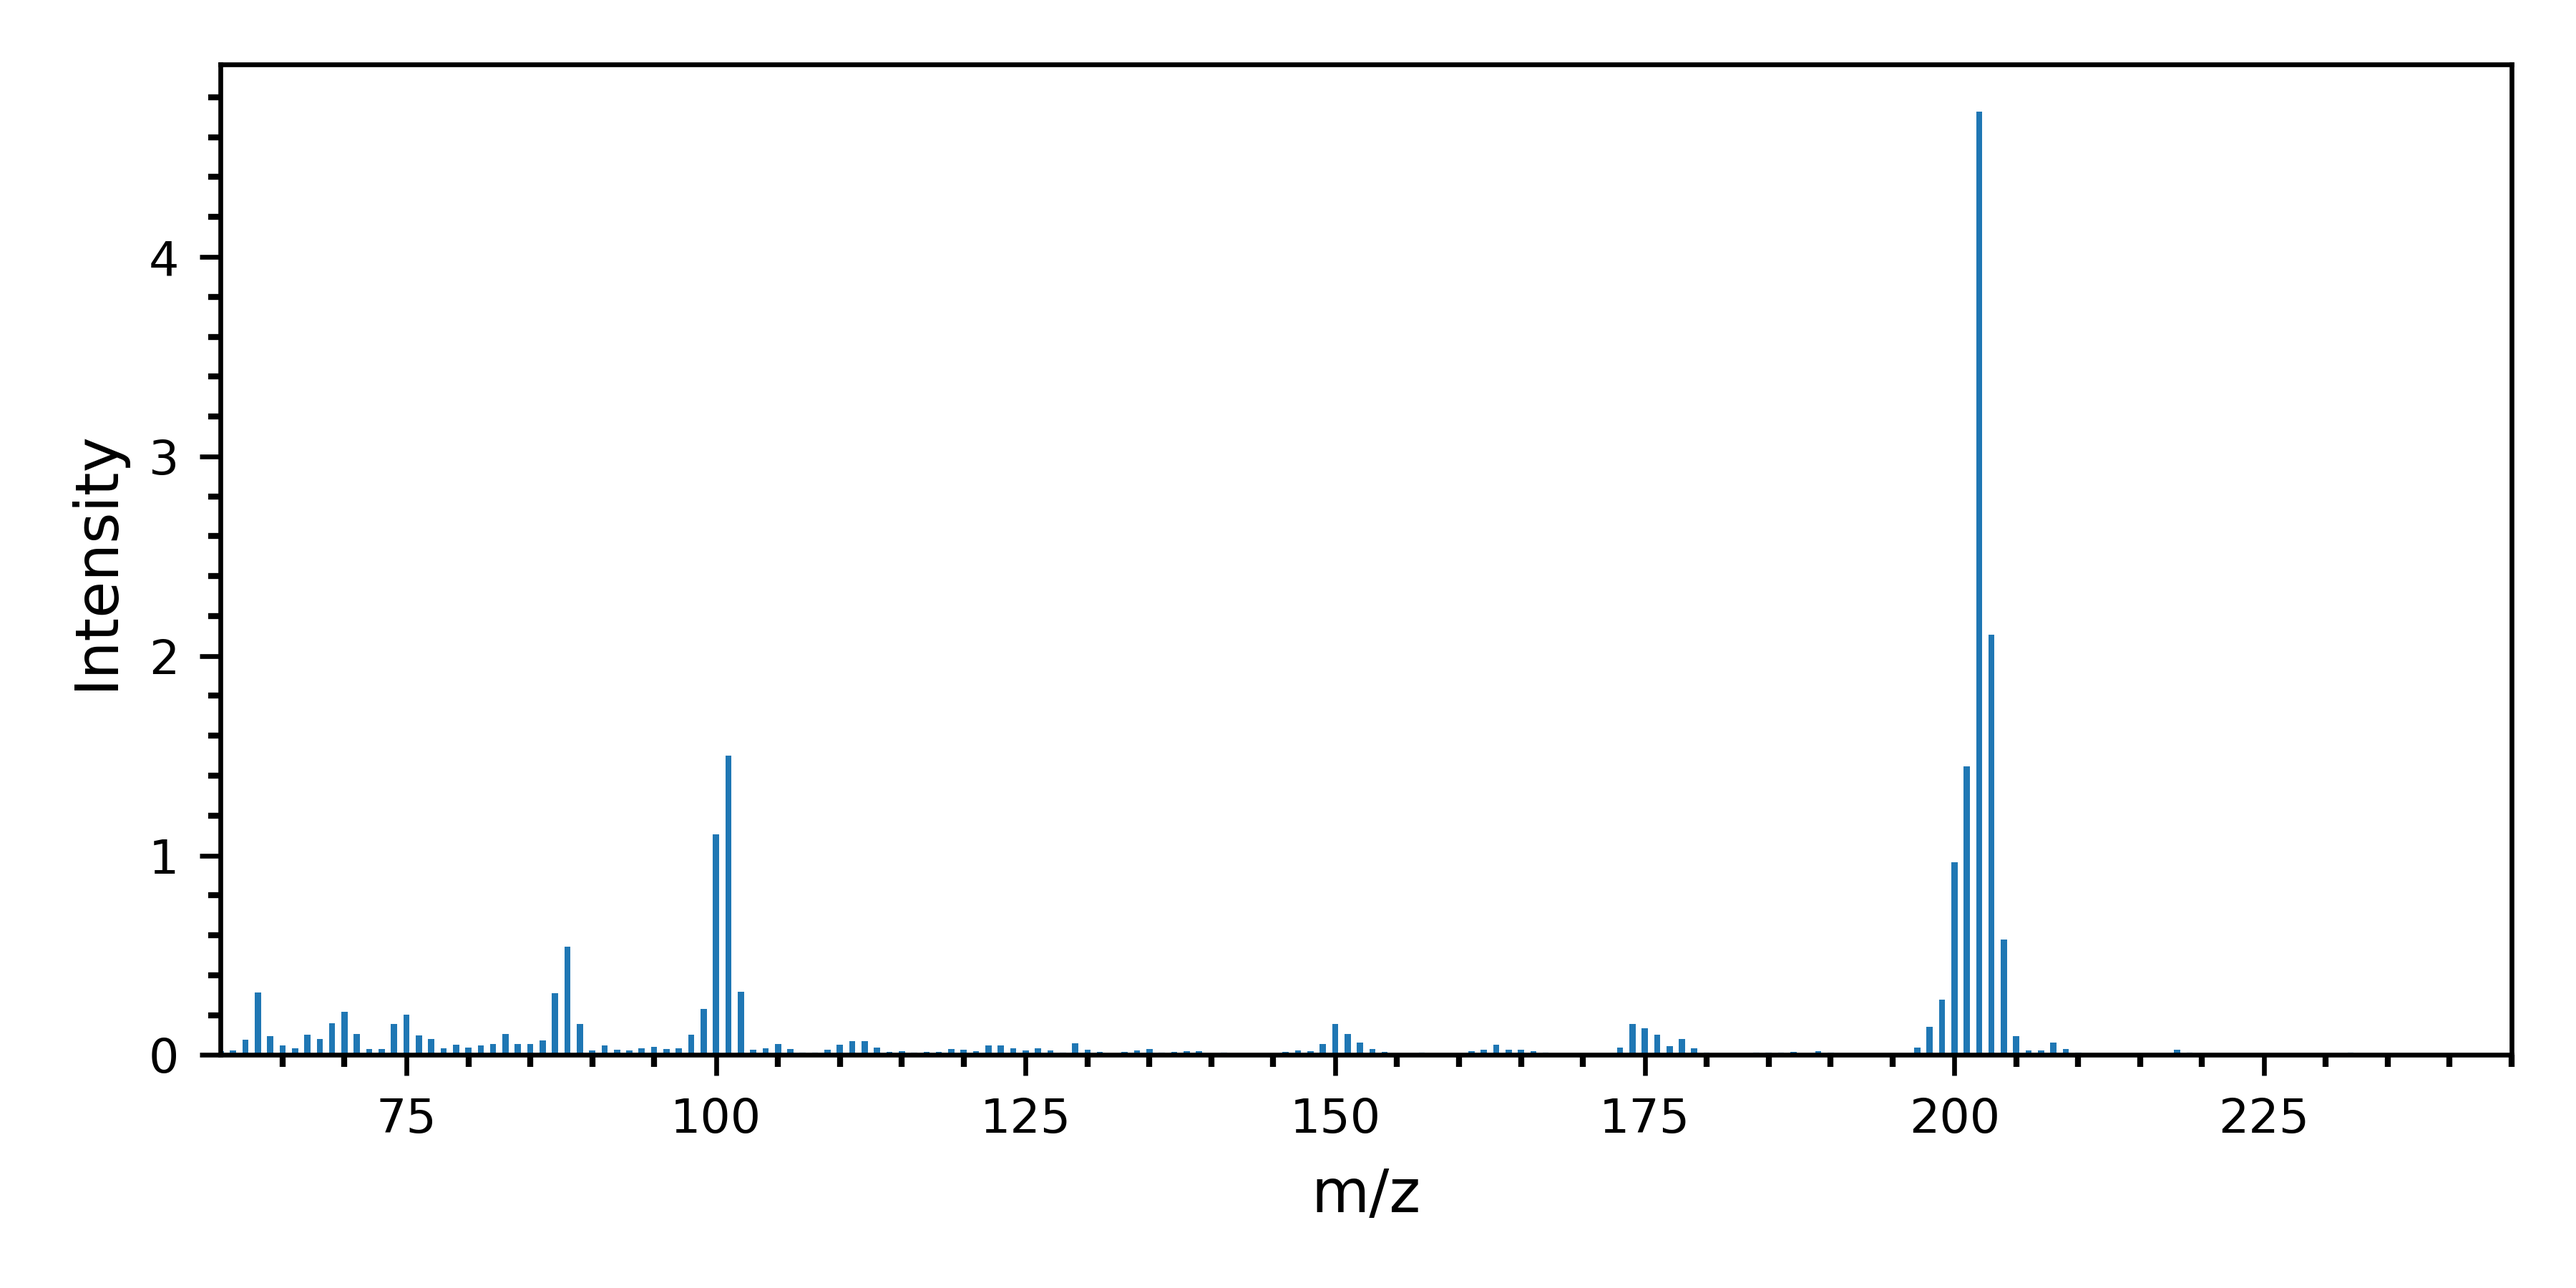
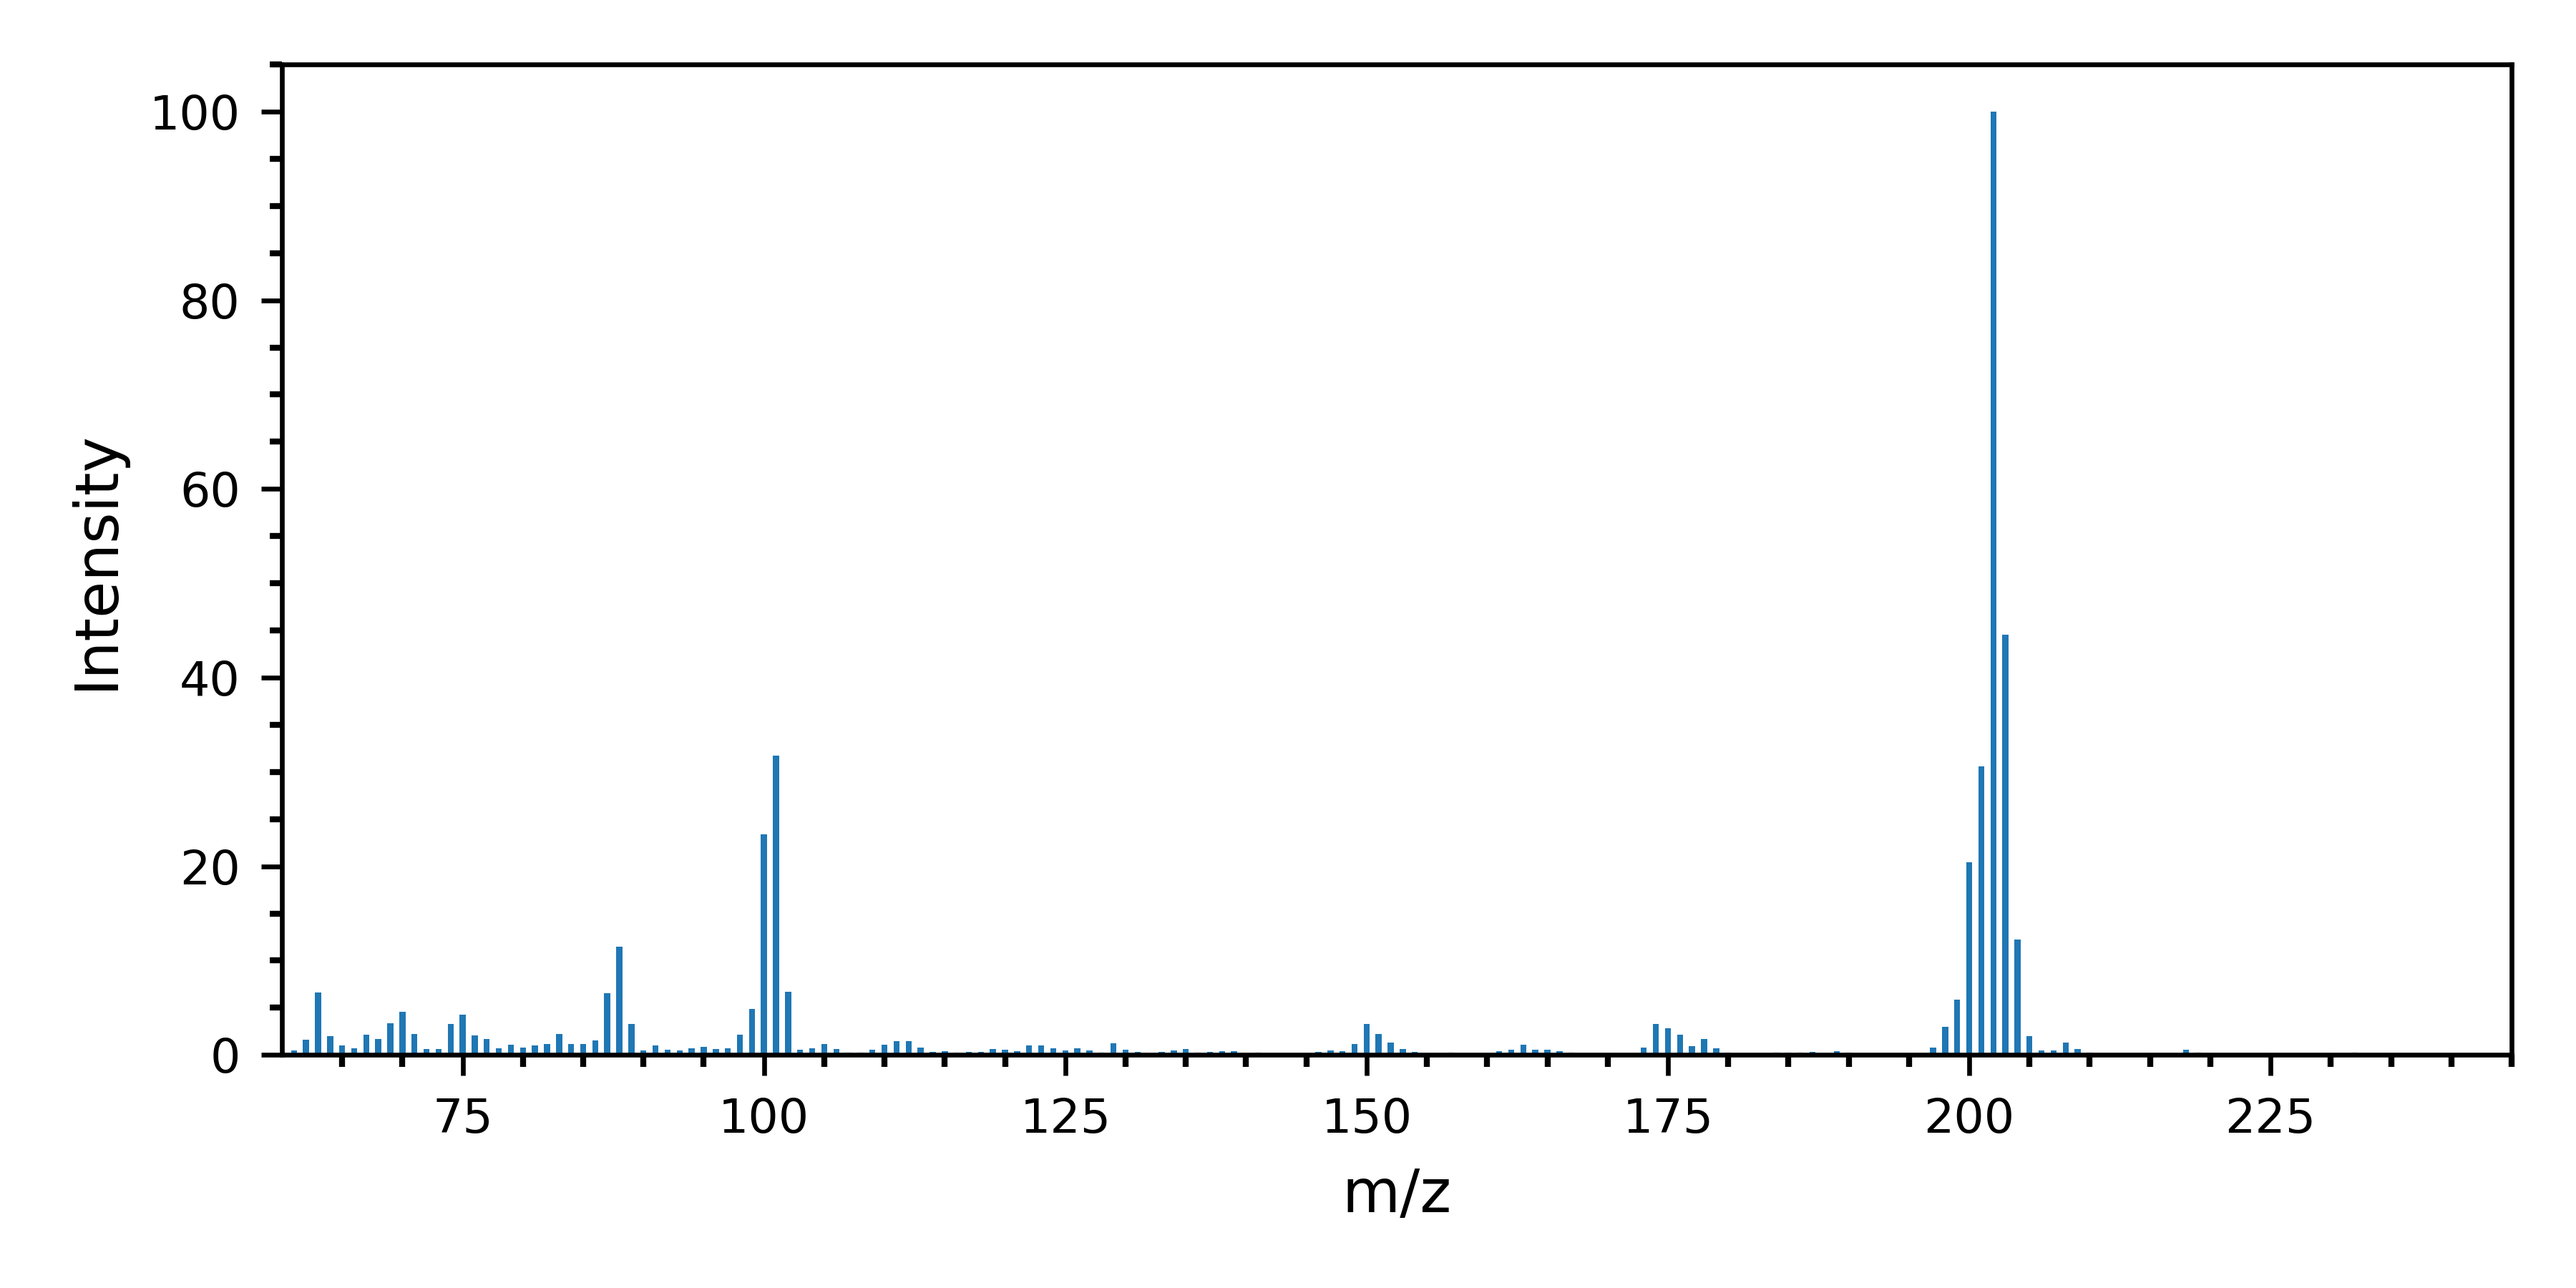
Update

diff --git a/cal.py b/cal.py
@@ -28,18 +28,22 @@ def read_data(path, parent_path):
 
     mask = new_df['mass'] >= 60
     new_df = new_df[mask]
+
+    for key in new_df.keys()[1:]:
+        mol_idx = new_df[key].idxmax()
+        new_df[key] = (new_df[key] / new_df[key][mol_idx]) * 100
     
     return new_df
 
-def Fracmentation_factor(data, molecular_weights):
+def Fracmentation_factor(species_list, data, molecular_weights):
     sums = pd.DataFrame(columns = ['Species', 'Molecular weight', 'Full sum', 'MI', 'FF', 'MI fraction'])
 
-    full_sum = np.zeros(len(data.keys()[1:]))
-    MI_frac = np.zeros(len(data.keys()[1:]))
-    sum_MI = np.zeros(len(data.keys()[1:]))
-    FF = np.zeros(len(data.keys()[1:]))
+    full_sum = np.zeros(len(species_list))
+    MI_frac = np.zeros(len(species_list))
+    sum_MI = np.zeros(len(species_list))
+    FF = np.zeros(len(species_list))
 
-    for j, key in enumerate(data.keys()[1:]):
+    for j, key in enumerate(species_list):
         mol_idx = data[key].idxmax()
 
         main = []
@@ -53,8 +57,7 @@ def Fracmentation_factor(data, molecular_weights):
         sum_MI[j] += np.sum(main)
         FF[j] += full_sum[j] / sum_MI[j]
     
-    for j, f in enumerate(full_sum):
-        new_row = {'Species': key, 'Molecular weight': molecular_weights[j], 'Full sum': f, 'MI': sum_MI[j], 'FF': FF[j], 'MI fraction': MI_frac[j]}
+        new_row = {'Species': key, 'Molecular weight': molecular_weights[j], 'Full sum': full_sum[j], 'MI': sum_MI[j], 'FF': FF[j], 'MI fraction': MI_frac[j]}
         sums = pd.concat([sums, pd.DataFrame([new_row])], ignore_index=True)
 
     sums = sums.set_index('Species')
